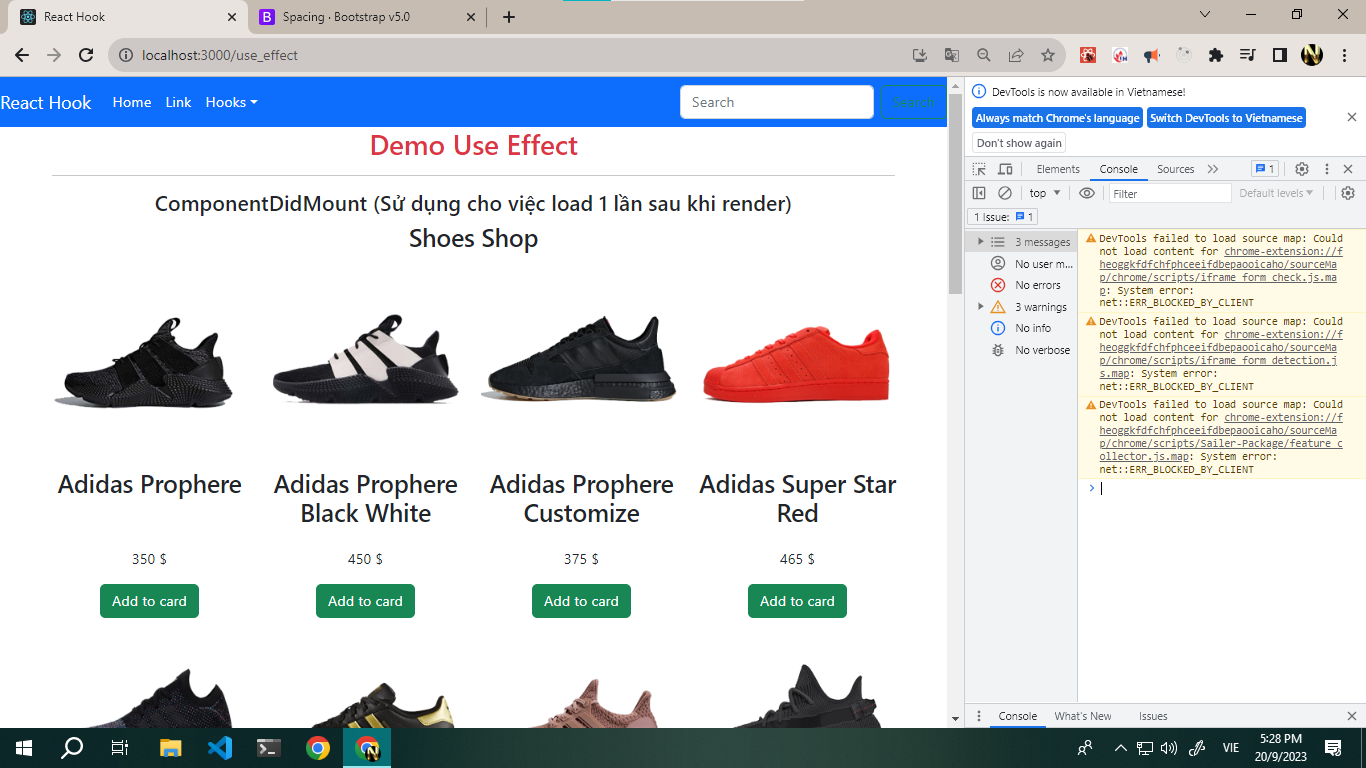
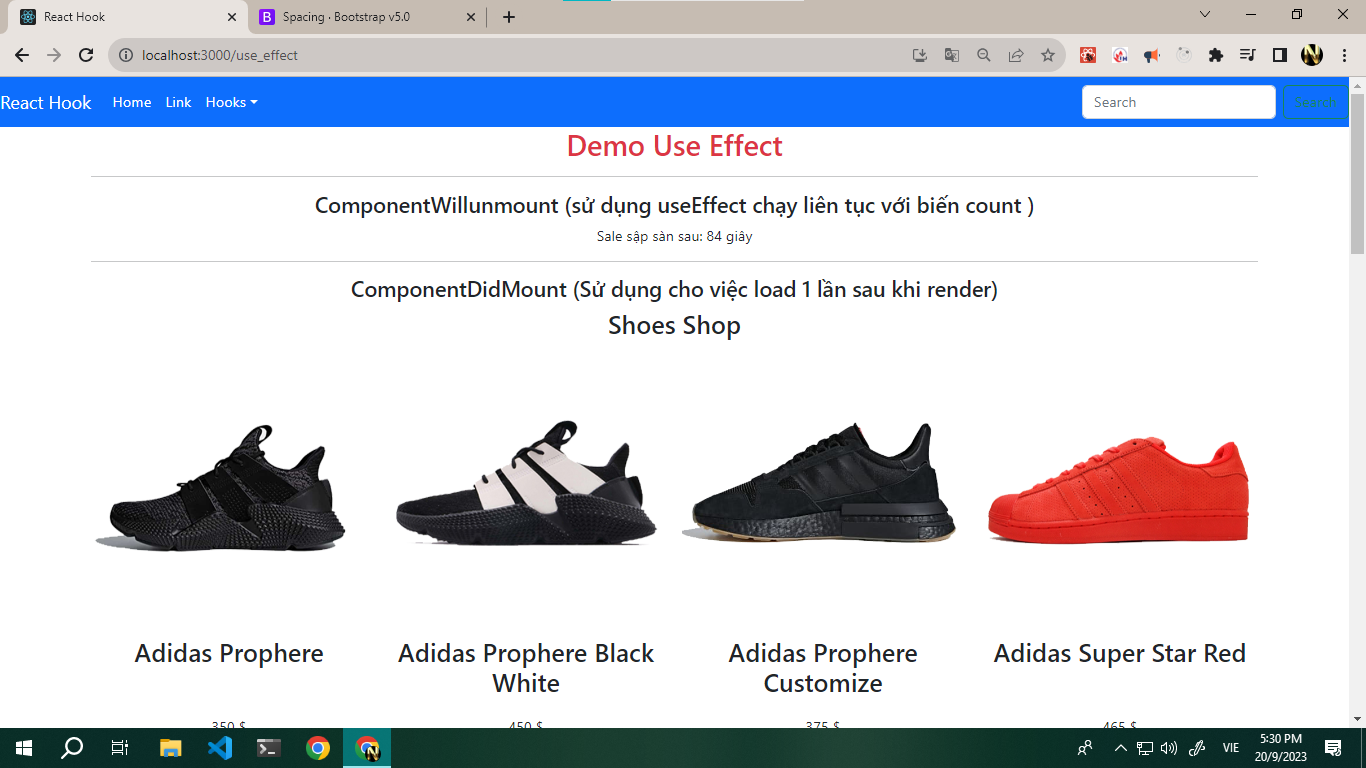
Sử dụng effect như 1 vòng lặp với biết count

diff --git a/react_buoi10/src/pages/UseEffectDemo/UseEffectDemo.jsx b/react_buoi10/src/pages/UseEffectDemo/UseEffectDemo.jsx
@@ -4,6 +4,7 @@ import axios from "axios";
 
 export default function UseEffectDemo() {
   let [arrProduct, setArrProduct] = useState([]);
+  let [count,setCount] = useState(99);
 
   const getApi = () => {
     let promise = axios({
@@ -29,8 +30,16 @@ export default function UseEffectDemo() {
     //useEffect sẽ chạy sau khi render()
 
     getApi();
-   
-  }, []);
+   //  setCount(++count); // goi truc tiep no se chayj lien tuc nhu vong lặp (for)
+   setTimeout(()=> {
+      if (count == 2) {
+         setCount(99)
+      }else{
+         setCount(--count);
+      }
+      
+   }, 1000)
+  }, [count]);
 
   const renderProduct = () => {
    return arrProduct.map((item, index) => {
@@ -49,7 +58,9 @@ export default function UseEffectDemo() {
   return (
     <div className="container">
       <h2 className="text-center text-danger">Demo Use Effect </h2>
-     
+      <hr />
+      <h4>ComponentWillunmount (sử dụng useEffect chạy liên tục với biến count )</h4>
+         <p>Sale sập sàn sau: {count} giây</p>
       <hr />
       <h4>ComponentDidMount (Sử dụng cho việc load 1 lần sau khi render)</h4>
       <h3>Shoes Shop</h3>
